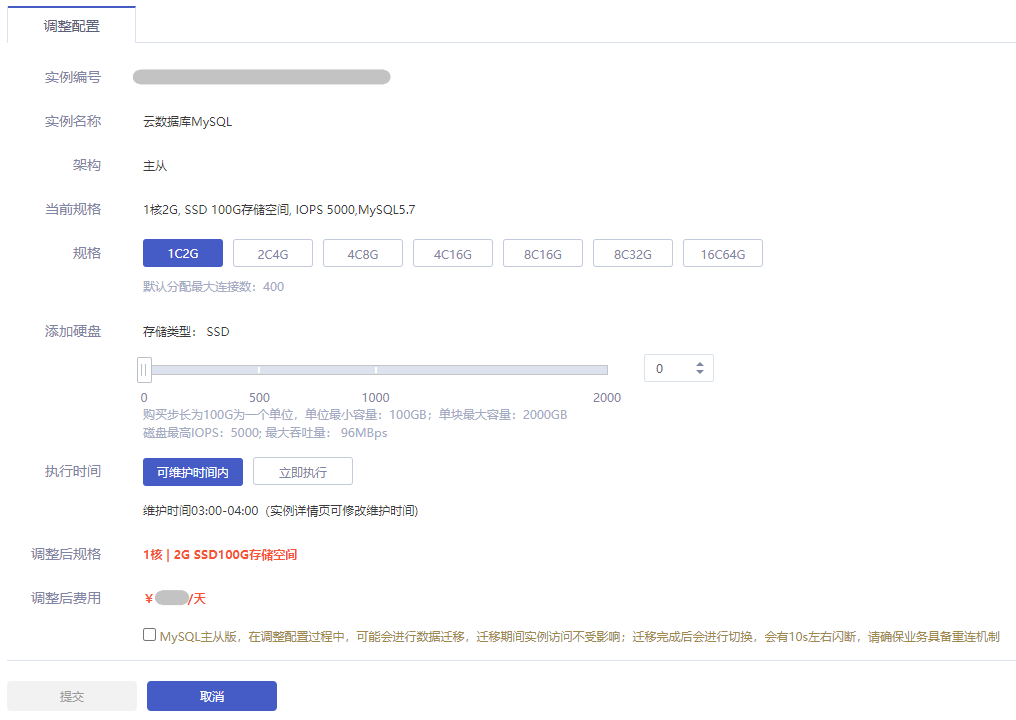
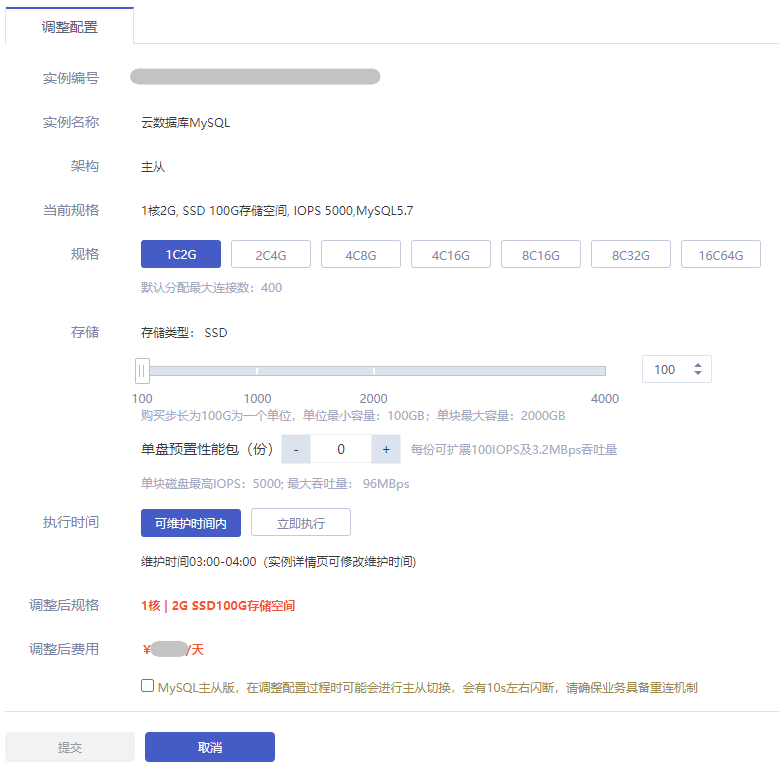
fix:原盘扩容功能上线相关文档更新、监控保存时长描述修改

diff --git a/数据库服务/MySQL/04.操作指南/08.监控报警/01.监控指标说明.md b/数据库服务/MySQL/04.操作指南/08.监控报警/01.监控指标说明.md
@@ -1,12 +1,12 @@
 ---
 title: 监控指标说明
-date: 2021-12-03 17:00:00
+date: 2022-04-19 17:00:00
 permalink: /pages/1206039/
 article: true
 ---
 
 
-云数据库 MySQL 支持监控运行状态下的实例，将数据可视化展示为图表形式。监控最多保存 90 天数据，监控粒度根据时间跨度自适应调整，监控粒度解释，详情参见 [监控粒度](#监控粒度)。
+云数据库 MySQL 支持监控运行状态下的实例，将数据可视化展示为图表形式。监控最多保存 60 天数据，监控粒度根据时间跨度自适应调整，监控粒度解释，详情参见 [监控粒度](#监控粒度)。
 
 您可以通过 [云数据库 MySQL 控制台](https://console.capitalonline.net/dbinstances) 查看云数据库 MySQL 的监控，查看云数据库 MySQL 监控步骤详情参见 [监控功能](./00.监控功能.md)。
 
@@ -16,10 +16,10 @@ article: true
 
 | 时间跨度   | 监控粒度 | 自适应说明                                              | 保留时长 |
 | :--------- | :------- | :------------------------------------------------------ | :------- |
-| (0h, 4h]   | 30 s     | 时间跨度在 4 小时内，监控粒度为 30 秒                   | 90天     |
-| (4h, 2d]   | 1 min    | 时间跨度超过 4 小时，但在 2 天内，监控粒度调整为 1 分钟 | 90天     |
-| (2d, 10d]  | 5 min    | 时间跨度超过 2 天，但在 10 天内，监控粒度调整为 5 分钟  | 90天     |
-| (10d, 30d] | 1 h      | 时间跨度超过 10 天，但在 30 天内，监控粒度调整为 1 小时 | 90天     |
+| (0h, 4h]   | 30 s     | 时间跨度在 4 小时内，监控粒度为 30 秒                   | 60天     |
+| (4h, 2d]   | 1 min    | 时间跨度超过 4 小时，但在 2 天内，监控粒度调整为 1 分钟 | 60天     |
+| (2d, 10d]  | 5 min    | 时间跨度超过 2 天，但在 10 天内，监控粒度调整为 5 分钟  | 60天     |
+| (10d, 30d] | 1 h      | 时间跨度超过 10 天，但在 30 天内，监控粒度调整为 1 小时 | 60天     |
 
 ## 监控分类
 

diff --git a/数据库服务/MySQL/08.API文档/02.实例相关接口/05.修改云数据库MySQL实例规格.md b/数据库服务/MySQL/08.API文档/02.实例相关接口/05.修改云数据库MySQL实例规格.md
@@ -1,6 +1,6 @@
 ---
 title: 修改云数据库MySQL实例规格
-date: 2021-12-03 17:00:00
+date: 2022-04-19 17:00:00
 permalink: /pages/1206063/
 article: true
 ---
@@ -23,7 +23,7 @@ article: true
 | InstanceUuid | 是   | string | 要修改配置的实例编号                                         |
 | PaasGoodsId  | 否   | int    | 变更后规格的商品编号                                         |
 | DiskType     | 否   | string | 磁盘类型，磁盘的添加类型。只能跟最开始购买时候类型一致。不能一个实例加多种类型磁盘，比如最开始添加高性能磁盘，后面也只能选择添加高性能磁盘 |
-| DiskValue    | 否   | string | 磁盘大小                                                     |
+| DiskValue    | 否   | string | 新增磁盘大小                                                     |
 
 ## 3.请求示例
 

diff --git a/数据库服务/MySQL/04.操作指南/02.管理实例/02.调整配置.md b/数据库服务/MySQL/04.操作指南/02.管理实例/02.调整配置.md
@@ -1,6 +1,6 @@
 ---
 title: 调整配置
-date: 2021-12-03 17:00:00
+date: 2022-04-19 17:00:00
 permalink: /pages/1206020/
 article: true
 ---
@@ -20,7 +20,7 @@ article: true
 - **MySQL 基础版**，在调整配置过程中，存在大约 5 分钟实例不可用的情况，建议在业务低峰期操作
 - 存储类型在实例创建时已经确定，**不可更改**，只能添加相同类型硬盘，且存储空间无法降低
 - 增加存储空间时不能超过该规格的存储空间限制，存储大小可选范围为 0-2000GB（单盘），但最高可以支持 14 块硬盘
-- 为了保障磁盘性能相同，添加硬盘时，预置性能包份数需与创建时一致
+- 为了保障磁盘性能相同，调整预置性能包份数将同时生效于全部硬盘。
 
 ## 控制台修改
 

diff --git a/数据库服务/MySQL/04.操作指南/00.使用限制.md b/数据库服务/MySQL/04.操作指南/00.使用限制.md
@@ -1,6 +1,6 @@
 ---
 title: 使用限制
-date: 2022-03-07 17:00:00
+date: 2022-04-19 17:00:00
 permalink: /pages/1206016/
 article: true
 ---
@@ -17,7 +17,7 @@ article: true
 ## MySQL 实例订购限制
 
 - 单次批量创建的 MySQL 实例最多支持 10 个。
-- 目前 MySQL 实例的单块磁盘最大支持 2000GB，最多支持 14 块数据盘且磁盘总量最大为 16000GB，实例规格最高为 16C64G。
+- 目前 MySQL 实例的单块磁盘最大支持 2000GB，最多支持 14 块数据盘且磁盘总量最大为 4000GB，实例规格最高为 16C64G。
 - 每个实例创建的只读实例最多支持 3 个。
 
 ## 读写分离限制

diff --git a/数据库服务/MySQL/00.产品发布记录.md b/数据库服务/MySQL/00.产品发布记录.md
@@ -1,6 +1,6 @@
 ---
 title: 产品发布记录
-date: 2022-04-15 17:00:00
+date: 2022-04-19 17:00:00
 permalink: /pages/1206000/
 article: true
 ---
@@ -10,6 +10,7 @@ article: true
 | 变更项  | 说明                   | 发布时间   | 发布地域 | 相关文档                                                     |
 | :------ | :--------------------- | :--------- | :------- | :----------------------------------------------------------- |
 | 可用区    | 迈阿密A上线           | 2022-04-15 | 全部     | -     |
+| 基础版/高可用版 | 支持原盘扩容 | 2022-04-19 | 全部 | - |
 
 ## 2022年3月
 

diff --git a/数据库服务/MySQL/04.操作指南/08.监控报警/00.监控功能.md b/数据库服务/MySQL/04.操作指南/08.监控报警/00.监控功能.md
@@ -1,6 +1,6 @@
 ---
 title: 监控功能
-date: 2021-12-03 17:00:00
+date: 2022-04-19 17:00:00
 permalink: /pages/1206038/
 article: true
 ---
@@ -14,7 +14,7 @@ article: true
 >
 > - 单个实例的表数量超过 100 万后，可能会影响数据库监控，请合理规范表的数量，控制单个实例表数量不超过 100 万。
 > - 支持的实例类型：MySQL 基础版、高可用版、只读实例
-> - 目前云数据库 MySQL 最长支持查看 **90天** 前的监控数据。
+> - 目前云数据库 MySQL 最长支持查看 **60天** 前的监控数据。
 
 ## 控制台查看
 
